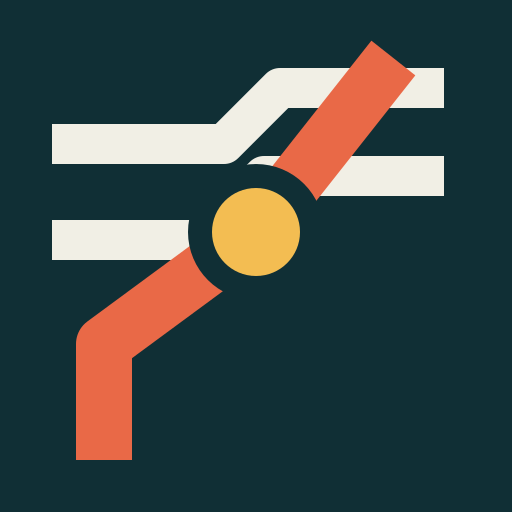
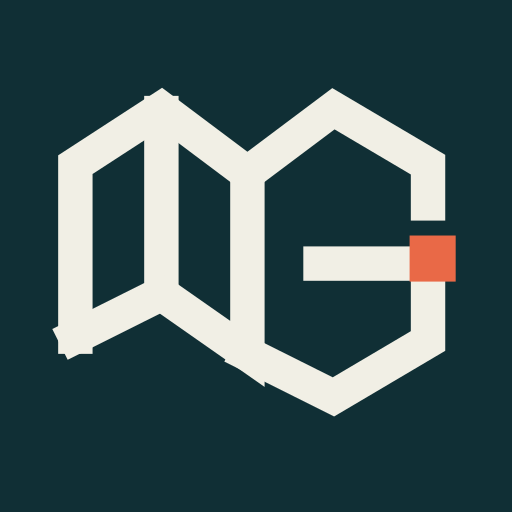
Transformer l'Atlas en carte interactive canonique

Changed region(s): [[0.0938, 0.0625, 0.9062, 0.9062]]

diff --git a/index.html b/index.html
@@ -1,6 +1,6 @@
-<!doctype html><html lang="fr"><head><meta charset="utf-8"><meta name="viewport" content="width=device-width,initial-scale=1"><title>Morgan Guichard — Cybersécurité, systèmes & SRE</title><meta name="description" content="Portfolio de Morgan Guichard : cybersécurité défensive, Linux, infrastructure, SRE/DevOps et software engineering. Études de cas et architectures exploitées en production."><link rel="canonical" href="https://morgan-guichard.fr/"><meta name="theme-color" content="#102f35"><meta property="og:type" content="website"><meta property="og:locale" content="fr_FR"><meta property="og:title" content="Morgan Guichard — Atlas d’ingénierie"><meta property="og:description" content="Des systèmes à la sécurité, de l’infrastructure au logiciel : explorez un profil technique transversal."><meta property="og:url" content="https://morgan-guichard.fr/"><meta property="og:image" content="https://morgan-guichard.fr/assets/social-card.png"><meta property="og:image:type" content="image/png"><meta property="og:image:width" content="1200"><meta property="og:image:height" content="630"><meta property="og:image:alt" content="Morgan Guichard — Atlas d’ingénierie"><meta name="twitter:card" content="summary_large_image"><link rel="icon" href="assets/favicon.svg" type="image/svg+xml"><link rel="icon" href="favicon-32x32.png" sizes="32x32" type="image/png"><link rel="icon" href="favicon-16x16.png" sizes="16x16" type="image/png"><link rel="apple-touch-icon" href="apple-touch-icon.png"><link rel="mask-icon" href="assets/favicon.svg" color="#102f35"><link rel="manifest" href="site.webmanifest"><link rel="stylesheet" href="styles/atlas.css"><script type="application/ld+json">{"@context":"https://schema.org","@type":"Person","name":"Morgan Guichard","url":"https://morgan-guichard.fr/","sameAs":["https://github.com/morgangch","https://www.linkedin.com/in/morgan-guichard"],"jobTitle":"Étudiant Epitech — cybersécurité, systèmes et SRE","knowsAbout":["Cybersécurité défensive","Linux","Infrastructure cloud","SRE","DevOps","Software engineering"]}</script></head><body>
+<!doctype html><html lang="fr"><head><meta charset="utf-8"><meta name="viewport" content="width=device-width,initial-scale=1"><title>Morgan Guichard — Cybersécurité, systèmes & SRE</title><meta name="description" content="Portfolio de Morgan Guichard : cybersécurité défensive, Linux, infrastructure, SRE/DevOps et software engineering. Études de cas et architectures exploitées en production."><link rel="canonical" href="https://morgan-guichard.fr/"><meta name="theme-color" content="#102f35"><meta property="og:type" content="website"><meta property="og:locale" content="fr_FR"><meta property="og:title" content="Morgan Guichard — Atlas d’ingénierie"><meta property="og:description" content="Des systèmes à la sécurité, de l’infrastructure au logiciel : explorez un profil technique transversal."><meta property="og:url" content="https://morgan-guichard.fr/"><meta property="og:image" content="https://morgan-guichard.fr/assets/social-card.png"><meta property="og:image:type" content="image/png"><meta property="og:image:width" content="1200"><meta property="og:image:height" content="630"><meta property="og:image:alt" content="Morgan Guichard — Atlas d’ingénierie"><meta name="twitter:card" content="summary_large_image"><link rel="icon" href="assets/favicon.svg" type="image/svg+xml"><link rel="icon" href="favicon-32x32.png" sizes="32x32" type="image/png"><link rel="icon" href="favicon-16x16.png" sizes="16x16" type="image/png"><link rel="apple-touch-icon" href="apple-touch-icon.png"><link rel="mask-icon" href="assets/favicon.svg" color="#102f35"><link rel="manifest" href="site.webmanifest"><link rel="stylesheet" href="styles/atlas.css"><script type="application/ld+json">{"@context":"https://schema.org","@type":"Person","name":"Morgan Guichard","url":"https://morgan-guichard.fr/","sameAs":["https://github.com/morgangch","https://www.linkedin.com/in/morgan-guichard"],"jobTitle":"Étudiant Epitech — cybersécurité, systèmes et SRE","image":"https://morgan-guichard.fr/assets/profile-photo.png","knowsAbout":["Cybersécurité défensive","Linux","Infrastructure cloud","SRE","DevOps","Software engineering"]}</script></head><body>
 <a class="skip" href="#contenu">Aller au contenu</a><header class="site-header"><nav class="nav wrap" aria-label="Navigation principale"><a class="brand" href="index.html"><img src="assets/monogram.svg" alt=""><span>Morgan Guichard<small>ATLAS D’INGÉNIERIE</small></span></a><button class="menu" aria-expanded="false" aria-controls="nav">Menu</button><div class="nav-links" id="nav"><a href="#territoires">Territoires</a><a href="#projets">Études de cas</a><a href="#parcours">Parcours</a><a href="cv.html">CV</a><a href="#contact">Contact</a></div></nav></header>
-<main id="contenu"><section class="hero"><div class="wrap"><p class="eyebrow">43.611° N / 3.877° E · Montpellier</p><div class="hero-grid"><div><h1>Comprendre le système. Sécuriser l’ensemble.</h1><p class="lead">Je travaille sur toute la profondeur d’un système&nbsp;: Linux et infrastructure, automatisation et observabilité, sécurité défensive, puis le logiciel qui s’y exécute.</p><div class="actions"><a class="btn primary" href="#projets">Explorer les études de cas <span aria-hidden="true">→</span></a><a class="btn" href="mailto:morgan.guichard@epitech.eu">Écrire un message</a></div></div><aside class="status"><strong>Cap actuel</strong>Étudiant à Epitech. Recherche une alternance à partir d’octobre 2026 en cybersécurité, systèmes, infrastructure ou SRE/DevOps.</aside></div><div class="quick" aria-label="Repères clés"><div><b>183</b><span>machines physiques — environnement OVHcloud</span></div><div><b>100+</b><span>endpoints — API Projet Résurgence</span></div><div><b>10+</b><span>services orchestrés dans un monorepo</span></div><div><b>~90</b><span>joueurs actifs sur la plateforme</span></div></div></div></section>
+<main id="contenu"><section class="hero"><div class="wrap"><p class="eyebrow">43.611° N / 3.877° E · Montpellier</p><div class="hero-grid"><div><h1>Comprendre le système. Sécuriser l’ensemble.</h1><p class="lead">Je travaille sur toute la profondeur d’un système&nbsp;: Linux et infrastructure, automatisation et observabilité, sécurité défensive, puis le logiciel qui s’y exécute.</p><div class="actions"><a class="btn primary" href="#projets">Explorer les études de cas <span aria-hidden="true">→</span></a><a class="btn" href="mailto:morgan.guichard@epitech.eu">Écrire un message</a></div></div><aside class="profile-status"><img src="assets/profile-photo.png" width="160" height="160" alt="Portrait de Morgan Guichard"><div class="status"><strong>Cap actuel</strong>Étudiant à Epitech. Recherche une alternance à partir d’octobre 2026 en cybersécurité, systèmes, infrastructure ou SRE/DevOps.</div></aside></div><div class="quick" aria-label="Repères clés"><div><b>183</b><span>machines physiques — environnement OVHcloud</span></div><div><b>100+</b><span>endpoints — API Projet Résurgence</span></div><div><b>10+</b><span>services orchestrés dans un monorepo</span></div><div><b>~90</b><span>joueurs actifs sur la plateforme</span></div></div></div></section>
 <section id="territoires"><div class="wrap"><div class="section-head"><div><p class="eyebrow">Carte 01 / Système</p><h2>Une géographie de connexions</h2></div><p>La carte ne classe pas des outils&nbsp;: elle montre comment mes terrains de travail se touchent. Les systèmes forment le socle, l’infrastructure leur donne une échelle, le corridor SRE relie exploitation et logiciel, et la sécurité traverse toutes ces couches.</p></div>
 <div class="gis-shell" id="atlas-map" data-zoom="1"><div class="gis-toolbar" aria-label="Couches de la carte"><div class="layer-switcher" role="group" aria-label="Afficher les points par catégorie"><button class="layer-btn active" type="button" data-layer="experiences" aria-pressed="true">Expériences</button><button class="layer-btn active" type="button" data-layer="projects" aria-pressed="true">Projets</button><button class="layer-btn" type="button" data-layer="skills" aria-pressed="false">Compétences</button></div><p class="gis-status" aria-live="polite">Vue d’ensemble · zoom 1,0×</p></div><div class="gis-main"><div class="gis-viewport" tabindex="0" aria-label="Carte interactive de l’univers technique. Utilisez les flèches pour déplacer la carte, plus et moins pour zoomer, ou sélectionnez un lieu avec Tab."><svg class="gis-canvas" viewBox="0 0 900 620" role="img" aria-labelledby="gisTitle gisDesc"><title id="gisTitle">Carte interactive de l’univers technique de Morgan Guichard</title><desc id="gisDesc">Cinq territoires fictifs représentent cybersécurité, systèmes, infrastructure, SRE et software. Les expériences et projets sont des lieux sélectionnables.</desc><defs><pattern id="gisGrid" width="50" height="50" patternUnits="userSpaceOnUse"><path d="M50 0H0v50" fill="none" stroke="#355b5d" stroke-width=".55" opacity=".22"/></pattern><filter id="labelHalo"><feMorphology in="SourceAlpha" operator="dilate" radius="2" result="d"/><feFlood flood-color="#f1efe5"/><feComposite in2="d" operator="in"/><feMerge><feMergeNode/><feMergeNode in="SourceGraphic"/></feMerge></filter></defs><g id="map-world"><rect x="-250" y="-180" width="1400" height="980" fill="#e7e3d5"/><rect x="-250" y="-180" width="1400" height="980" fill="url(#gisGrid)"/><g class="terrain-lines" aria-hidden="true"><path d="M-150 105C20 5 150 145 300 72S565 12 730 105s260 65 380-30"/><path d="M-150 137C20 37 150 177 300 104s265-60 430 33 260 65 380-30"/><path d="M-120 500c175-80 300 80 475-15s340-45 485 38 240 40 340-38"/><path d="M-120 532c175-80 300 80 475-15s340-45 485 38 240 40 340-38"/></g><g class="territories"><path class="territory-shape cyber" data-place="cyber" tabindex="0" role="button" aria-label="Territoire Cybersécurité" d="M35 65C105 25 205 30 275 75l58 78-42 126-116 73-127-57-30-119z"/><path class="territory-shape systems" data-place="systems" tabindex="0" role="button" aria-label="Territoire Systèmes et Linux" d="M275 75c95-45 206-33 279 38l47 108-65 108-154 21-91-71 42-126z"/><path class="territory-shape infra" data-place="infra" tabindex="0" role="button" aria-label="Territoire Infrastructure et cloud" d="M554 113c100-25 208 10 275 83l39 124-90 107-150-17-92-81 65-108z"/><path class="territory-shape sre" data-place="sre" tabindex="0" role="button" aria-label="Territoire DevOps et SRE" d="M382 350l154-21 92 81 150 17-45 122-157 65-202-29-93-97z"/><path class="territory-shape software" data-place="software" tabindex="0" role="button" aria-label="Territoire Software engineering" d="M48 295l127 57 116-73 91 71-101 138 93 97-162 37L62 543l-41-125z"/></g><g class="territory-labels" aria-hidden="true"><text x="84" y="120">CYBERSÉCURITÉ</text><text x="382" y="137">SYSTÈMES</text><text x="686" y="191">INFRASTRUCTURE</text><text x="515" y="535">DEVOPS / SRE</text><text x="110" y="492">SOFTWARE</text></g><g class="meaningful-routes" aria-hidden="true"><path d="M217 475L315 420L440 345L570 340"/><path class="project-link" d="M440 345L213 222"/><path class="project-link" d="M440 345L166 181"/></g><g class="poi-layer experiences" data-layer-group="experiences"><g class="poi secondary" data-place="epitech" tabindex="0" role="button" aria-label="Epitech Montpellier, formation"><circle cx="217" cy="475" r="7"/><text x="230" y="470">EPITECH</text></g><g class="poi secondary" data-place="isalyx" tabindex="0" role="button" aria-label="Isalyx Group, expérience software"><rect x="307" y="412" width="16" height="16"/><text x="330" y="417">ISALYX</text></g><g class="poi facility" data-place="ovhcloud" tabindex="0" role="button" aria-label="OVHcloud OPCP, expérience SRE"><path d="M558 351v-23h24v23zM563 328v-9h14v9"/><circle cx="570" cy="340" r="18"/><text x="598" y="326">OVHCLOUD · OPCP</text><text class="zoom-detail" x="598" y="340">183 MACHINES · SRE</text></g><g class="experience-subpois zoom-detail"><g class="poi detail" data-place="ovh-preseed" tabindex="-1" role="button" aria-label="Provisioning Debian"><circle cx="518" cy="268" r="5"/><text x="528" y="265">PRESEED DEBIAN</text></g><g class="poi detail" data-place="ovh-inventory" tabindex="-1" role="button" aria-label="Inventaire Netbox et OpenStack"><circle cx="657" cy="294" r="5"/><text x="667" y="291">NETBOX · OPENSTACK</text></g><g class="poi detail" data-place="ovh-cicd" tabindex="-1" role="button" aria-label="Migration CI/CD OVH CDS"><circle cx="610" cy="421" r="5"/><text x="620" y="418">OVH CDS V1 → V2</text></g><g class="poi detail" data-place="isalyx-dotnet" tabindex="-1" role="button" aria-label="Développement C sharp WPF"><circle cx="276" cy="382" r="5"/><text x="286" y="379">C# · .NET WPF</text></g><g class="poi detail" data-place="isalyx-backup" tabindex="-1" role="button" aria-label="Sauvegardes Rsync et Docker"><circle cx="349" cy="453" r="5"/><text x="359" y="450">RSYNC · DOCKER</text></g><g class="poi detail" data-place="epitech-pge" tabindex="-1" role="button" aria-label="Programme Grande École"><circle cx="245" cy="520" r="5"/><text x="255" y="517">PROGRAMME GRANDE ÉCOLE</text></g><g class="poi detail" data-place="epitech-msc" tabindex="-1" role="button" aria-label="Master of Science"><circle cx="268" cy="551" r="5"/><text x="278" y="548">MASTER OF SCIENCE</text></g></g></g><g class="poi-layer projects" data-layer-group="projects"><g class="poi capital" data-place="resurgence" tabindex="0" role="button" aria-label="Projet Résurgence, projet transversal"><circle cx="440" cy="345" r="20"/><circle cx="440" cy="345" r="7"/><text x="350" y="382">PROJET RÉSURGENCE</text><text class="zoom-detail" x="350" y="396">100+ ENDPOINTS · 10+ SERVICES</text></g><g class="poi secondary" data-place="privescord" tabindex="0" role="button" aria-label="PrivEscCord, projet de sécurité défensive"><path d="M205 222l8-8 8 8-8 8z"/><text x="226" y="219">PRIVESCORD</text></g><g class="poi secondary" data-place="ctf" tabindex="0" role="button" aria-label="Compétitions CTF"><path d="M158 181h16m-8-8v16"/><text x="181" y="178">CTF</text></g><g class="poi secondary zoom-detail" data-place="vscode" tabindex="0" role="button" aria-label="Extension VS Code"><circle cx="155" cy="540" r="6"/><text x="168" y="537">EXTENSION VS CODE</text></g></g><g class="poi-layer skills" data-layer-group="skills" hidden><g class="skill-pois zoom-detail"><g class="poi skill" data-place="linux" tabindex="0" role="button" aria-label="Linux et Debian"><circle cx="442" cy="207" r="5"/><text x="452" y="204">LINUX / DEBIAN</text></g><g class="poi skill" data-place="docker" tabindex="0" role="button" aria-label="Docker et Systemd"><circle cx="590" cy="426" r="5"/><text x="600" y="423">DOCKER / SYSTEMD</text></g><g class="poi skill" data-place="observability" tabindex="0" role="button" aria-label="Observabilité"><circle cx="500" cy="397" r="5"/><text x="510" y="394">OBSERVABILITÉ</text></g><g class="poi skill" data-place="backend" tabindex="0" role="button" aria-label="Backend et API"><circle cx="202" cy="431" r="5"/><text x="212" y="428">BACKEND / API</text></g><g class="poi skill" data-place="security" tabindex="0" role="button" aria-label="Contrôle d’accès"><circle cx="118" cy="259" r="5"/><text x="128" y="256">CONTRÔLE D’ACCÈS</text></g></g></g></g></svg><div class="map-controls" aria-label="Contrôles de carte"><button type="button" data-map-action="zoom-in" aria-label="Zoom avant">+</button><button type="button" data-map-action="zoom-out" aria-label="Zoom arrière">−</button><button type="button" data-map-action="reset" aria-label="Revenir à la vue d’ensemble">⌂</button></div><div class="map-scale" aria-hidden="true"><span></span>ÉCHELLE CONCEPTUELLE</div><p class="map-hint">Glisser pour déplacer · molette ou +/− pour zoomer</p></div><aside class="place-panel" aria-live="polite" aria-atomic="true"><button class="panel-close" type="button" aria-label="Fermer la fiche">×</button><p class="meta panel-kind">Mode exploration</p><h3 class="panel-title">Sélectionnez un lieu</h3><p class="panel-copy">Explorez les territoires, expériences et projets. Les compétences détaillées apparaissent à partir du second niveau de zoom.</p><ul class="panel-tags tags"><li>5 territoires</li><li>3 couches</li></ul><a class="panel-link link-arrow" href="projets.html" hidden>Ouvrir l’étude de cas →</a><div class="panel-coords">ATLAS MG · VUE 01</div></aside></div><noscript><p class="gis-noscript">La carte interactive nécessite JavaScript. Les mêmes informations restent disponibles dans les sections Projets et Parcours ci-dessous.</p></noscript></div></div></section>
 <section id="projets"><div class="wrap"><div class="section-head"><div><p class="eyebrow">Points remarquables</p><h2>Systèmes construits, déployés, exploités</h2></div><p>Une sélection courte, centrée sur les décisions et la réalité opérationnelle plutôt que sur une constellation de technologies.</p></div><article class="feature"><div><p class="meta">Étude de cas 01 · Depuis oct. 2023</p><h2>Projet Résurgence</h2><p>Une plateforme de jeu en ligne devenue un système distribué&nbsp;: API, cinq interfaces web reliées par SSO, bots, workers, base de données et couche d’exploitation. Un projet personnel utilisé, maintenu et sécurisé en production.</p><a class="btn" style="color:inherit;border-color:inherit" href="projets.html#resurgence">Ouvrir l’étude de cas →</a></div><div class="feature-facts"><div><b>100+</b><span>endpoints REST Python</span></div><div><b>5</b><span>interfaces reliées par SSO</span></div><div><b>272</b><span>membres</span></div><div><b>~5k</b><span>visiteurs uniques</span></div></div></article><div class="cards" style="margin-top:1rem"><article class="card"><p class="meta">Sécurité défensive</p><h3>PrivEscCord</h3><p>Outil d’audit Discord défensif, en lecture seule. Onze contrôles détectent notamment les chemins d’élévation de privilèges, permissions risquées et paramètres 2FA.</p><ul class="tags"><li>Python</li><li>discord.py</li><li>11 contrôles</li></ul></article><article class="card"><p class="meta">Developer tooling</p><h3>Extension VS Code</h3><p>Suivi des quotas de Claude, Codex et OpenCode via JSON-RPC sur stdio, lecture SQLite et polling avec backoff exponentiel.</p><ul class="tags"><li>TypeScript</li><li>JSON-RPC</li><li>SQLite</li></ul></article><article class="card"><p class="meta">Cybersécurité offensive</p><h3>CTF comme terrain d’analyse</h3><p>4e au Cycom CTF 2024, 5e en 2025 et 5e au GCC CTF 2024. Une pratique offensive utilisée pour mieux comprendre les chemins d’attaque.</p><a class="link-arrow" href="https://github.com/morgangch/GCC-CTF-2024">Consulter le write-up →</a></article></div></div></section>

diff --git a/styles/atlas.css b/styles/atlas.css
@@ -26,3 +26,5 @@ main>section:not(.contact):after,main>.page-hero:after,.card:after,.cv-card:afte
 @media(max-width:780px){.gis-toolbar{align-items:flex-start;flex-direction:column}.gis-status{white-space:normal}.gis-main{grid-template-columns:1fr;min-height:0}.gis-viewport,.gis-canvas{min-height:470px}.place-panel{min-height:240px;border-left:0;border-top:1px solid var(--ink)}.map-hint{display:none}.gis-shell{margin-inline:-.5rem}.diagram-grid{grid-template-columns:1fr;gap:.45rem}.diagram-arrow{transform:rotate(90deg);text-align:center}.diagram-branches,.diagram-admin{grid-column:auto}.diagram-branches{grid-template-columns:1fr}.diagram-admin{flex-direction:column}.diagram-head{font-size:.56rem}.timeline{margin-left:0}.event{grid-template-columns:1fr;gap:.25rem}}
 .poi-layer[hidden]{display:none}.gis-viewport:focus-visible{outline:3px solid var(--coral);outline-offset:-4px}.poi:focus text,.territory-shape:focus+text{font-weight:800}
 .poi.detail circle{fill:var(--blue);stroke:var(--paper);stroke-width:2}.poi.detail text{font-size:7px;font-weight:600}.experience-subpois{transition:opacity .16s}
+.profile-status{display:grid;grid-template-columns:96px 1fr;gap:1rem;align-items:center}.profile-status>img{display:block;width:96px;height:96px;object-fit:cover;border-radius:50%;border:3px solid var(--paper);outline:1px solid var(--ink);background:var(--paper-2)}
+@media(max-width:520px){.profile-status{grid-template-columns:72px 1fr}.profile-status>img{width:72px;height:72px}}

diff --git a/docs/visual-identity.md b/docs/visual-identity.md
@@ -31,16 +31,17 @@ Sur papier, conserver `ink`, `coral`, `amber` et `paper`; une version monochrome
 
 Échelle web indicative : 12 px métadonnée, 14 px interface, 16 px texte, 21 px introduction, 32–60 px titre de section, 44–94 px titre manifeste. Titres serrés (`-0.045em` à `-0.065em`), texte courant non serré.
 
-## 4. Symbole Atlas
+## 4. Logo MG Atlas
 
-Le symbole n’est plus un monogramme. C’est une **tuile de terrain technique** : deux courbes de niveau décrivent le système, une route corail le traverse et un nœud ambre marque le point où les couches se rencontrent. Les petites graduations en bas à droite évoquent un repère de carte et une grille d’infrastructure. Cette construction reste identifiable à 16 px sans dépendre de lettres.
+Le logo validé fusionne les initiales **M** et **G** dans une construction géométrique inspirée d’un pli de carte. Le carré corail agit comme point de repère et ouverture du G. La marque est technique, compacte et directement liée à l’identité Atlas.
 
-- Source : `assets/monogram.svg` (nom de fichier conservé pour la compatibilité des URL).
-- Zone de protection : au moins un quart de la largeur du symbole.
-- Taille minimale : 16 px numérique, 6 mm imprimé.
-- Version principale : fond `ink`, courbes `paper`, route `coral`, nœud `amber`.
-- Version monochrome : fond plein et tous les tracés en réserve ; conserver la différence d’épaisseur route/contours.
-- Ne pas étirer, arrondir davantage, ajouter d’initiales, ombrer ou transformer le symbole en blason.
+- `assets/logo-mark.svg` : version principale bleu pétrole sur fond clair.
+- `assets/monogram.svg` : version en réserve dans une tuile bleu pétrole, utilisée dans le header et sur les fonds complexes.
+- `assets/favicon.svg` : simplification renforcée pour les tailles 16–64 px.
+- Zone de protection : au moins un quart de la hauteur du signe.
+- Taille minimale : 16 px pour le favicon, 24 px pour la tuile, 8 mm pour la version imprimée.
+- Version monochrome : signe plein ou tracé en réserve ; le carré-repère adopte la même couleur en monochrome.
+- Ne jamais recomposer les lettres, déplacer le carré, ajouter une ombre ou utiliser l’ancien symbole route/courbes de niveau.
 
 ## 5. Grammaire cartographique
 
@@ -84,7 +85,7 @@ Fantasy, parchemin, fausse classification militaire, terminal hacker, noir/vert 
 
 ## 10. Déclinaisons numériques
 
-La marque principale reste `assets/monogram.svg`. Les petits exports raster sont régénérés depuis la géométrie simplifiée de `assets/favicon.svg`, sans variation de couleur entre formats :
+La marque principale est `assets/logo-mark.svg` sur fond clair et `assets/monogram.svg` en tuile. Les petits exports raster sont régénérés depuis `assets/favicon.svg`, sans variation de couleur entre formats :
 
 - `favicon-16x16.png` et `favicon-32x32.png` pour les navigateurs historiques ;
 - `favicon.ico`, contenant les variantes 16 et 32 px ;
@@ -92,7 +93,7 @@ La marque principale reste `assets/monogram.svg`. Les petits exports raster sont
 - `android-chrome-192x192.png` et `android-chrome-512x512.png` pour le manifeste ;
 - `assets/social-card.png` en 1200 × 630 px, export raster de `assets/social-card.svg`.
 
-À très petite taille, la lecture attendue est d’abord celle d’une route corail traversant des courbes claires vers un nœud ambre. Les graduations sont secondaires et peuvent disparaître optiquement sans altérer le symbole.
+À très petite taille, la lecture attendue est celle du pli MG en réserve ; le carré corail reste un accent secondaire et peut se réduire optiquement sans altérer le signe.
 
 ## 11. Carte canonique et limites de la métaphore
 
@@ -104,4 +105,8 @@ La métaphore s’arrête lorsqu’un autre format transmet mieux l’informatio
 
 ## 12. Repère compact / favicon
 
-Le favicon utilise `assets/favicon.svg`, une réduction volontaire du symbole principal : deux lignes topographiques, une route corail et un nœud ambre. Cette version supprime les détails secondaires qui se brouillent à 16 px. Elle est réservée aux favicons, icônes d’application et petits avatars ; le header, les documents et les grands supports continuent d’utiliser `assets/monogram.svg`.
+Le favicon utilise `assets/favicon.svg`, déclinaison simplifiée du logo MG Atlas. Les épaisseurs sont renforcées et le carré corail agrandi pour rester lisible à 16 px. Tous les favicons, icônes d’application, avatars de petite taille et exports Android/Apple doivent reprendre ce même signe.
+
+## 13. Photographie de référence
+
+La photographie validée est `assets/profile-photo.png`. Elle remplace `files/my_pic.png` et `files/1739188182751.jpg` pour toutes les futures déclinaisons du portfolio, des CV et de LinkedIn. Toute retouche doit conserver l’identité, les traits, la carnation et le naturel du portrait.

diff --git a/docs/claude-design-brief.md b/docs/claude-design-brief.md
@@ -4,7 +4,7 @@ Copier le bloc ci-dessous dans Claude Design, puis joindre :
 
 1. ce repository ou, au minimum, `docs/visual-identity.md`, `assets/monogram.svg`, `assets/favicon.svg`, `assets/social-card.svg`, `index.html` et `styles/atlas.css` ;
 2. les trois CV PDF présents dans `files/` ;
-3. la photo de profil originale en haute définition ;
+3. `assets/profile-photo.png`, photo de profil de référence validée (ne pas utiliser `files/my_pic.png`) ;
 4. uniquement les captures de projets dont la publication est autorisée.
 
 ---
@@ -19,9 +19,9 @@ Analyse avant de créer :
 
 - `docs/visual-identity.md`, source normative de la direction artistique ;
 - le portfolio et ses tokens dans `styles/atlas.css` ;
-- `assets/monogram.svg` pour la marque principale et `assets/favicon.svg` pour le repère compact ;
+- `assets/logo-mark.svg` pour la marque principale sur fond clair, `assets/monogram.svg` pour la tuile sombre et `assets/favicon.svg` pour les très petites tailles ;
 - les trois CV source : cybersécurité défensive/systèmes, DevOps/cloud/infrastructure et software engineering/backend ;
-- la photo fournie.
+- `assets/profile-photo.png`, seule photo de référence à utiliser ; ne pas utiliser `files/my_pic.png`.
 
 Ne fabrique aucune expérience, technologie, responsabilité, date, certification ou métrique. Ne transforme pas un projet personnel en expérience salariée. Ne publie aucune donnée interne à OVHcloud ou Isalyx. Les seuls chiffres mis en avant doivent être déjà présents dans les CV ou le portfolio, notamment : 183 machines physiques, 100+ endpoints, 10+ services, 5 interfaces, environ 90 joueurs actifs, 272 membres et environ 5 000 visiteurs uniques.
 
@@ -48,7 +48,7 @@ Employer avec parcimonie : graticules très pâles, coordonnées, index de feuil
 
 ### 3. Transformation de la photo
 
-À partir de la photo fournie, créer un portrait cohérent pour LinkedIn et les CV :
+À partir de `assets/profile-photo.png`, créer un portrait cohérent pour LinkedIn et les CV. Cette image remplace explicitement `files/my_pic.png` et `files/1739188182751.jpg` comme source finale :
 
 - conserver strictement l’identité, les traits du visage, l’âge apparent et la carnation ;
 - cadrage tête et épaules, regard naturel, expression accessible et professionnelle ;
